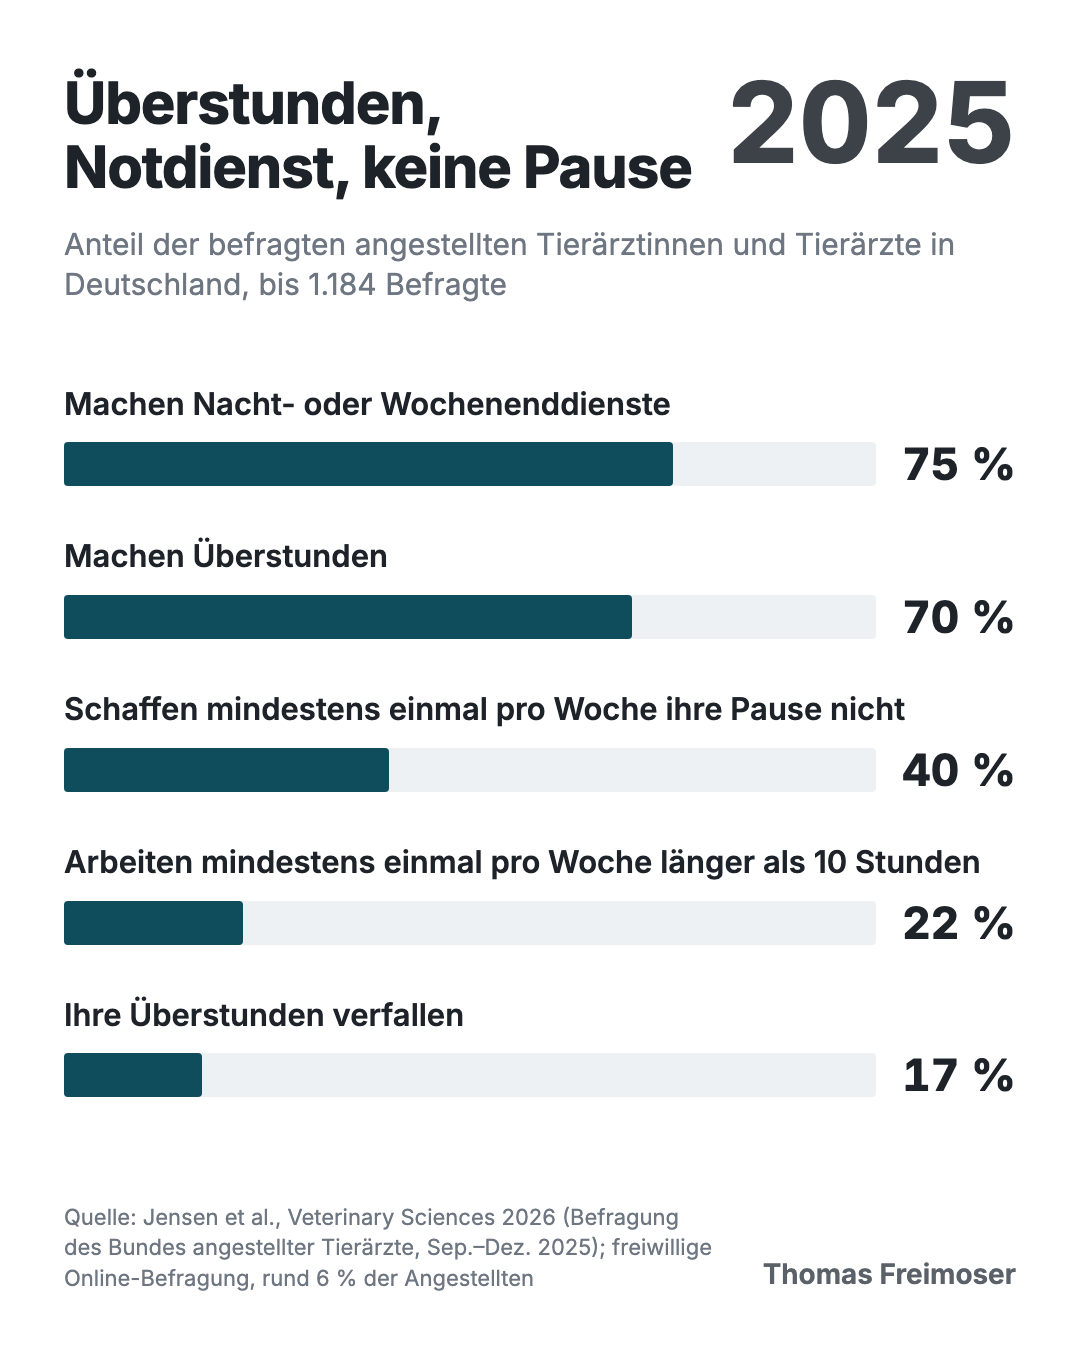
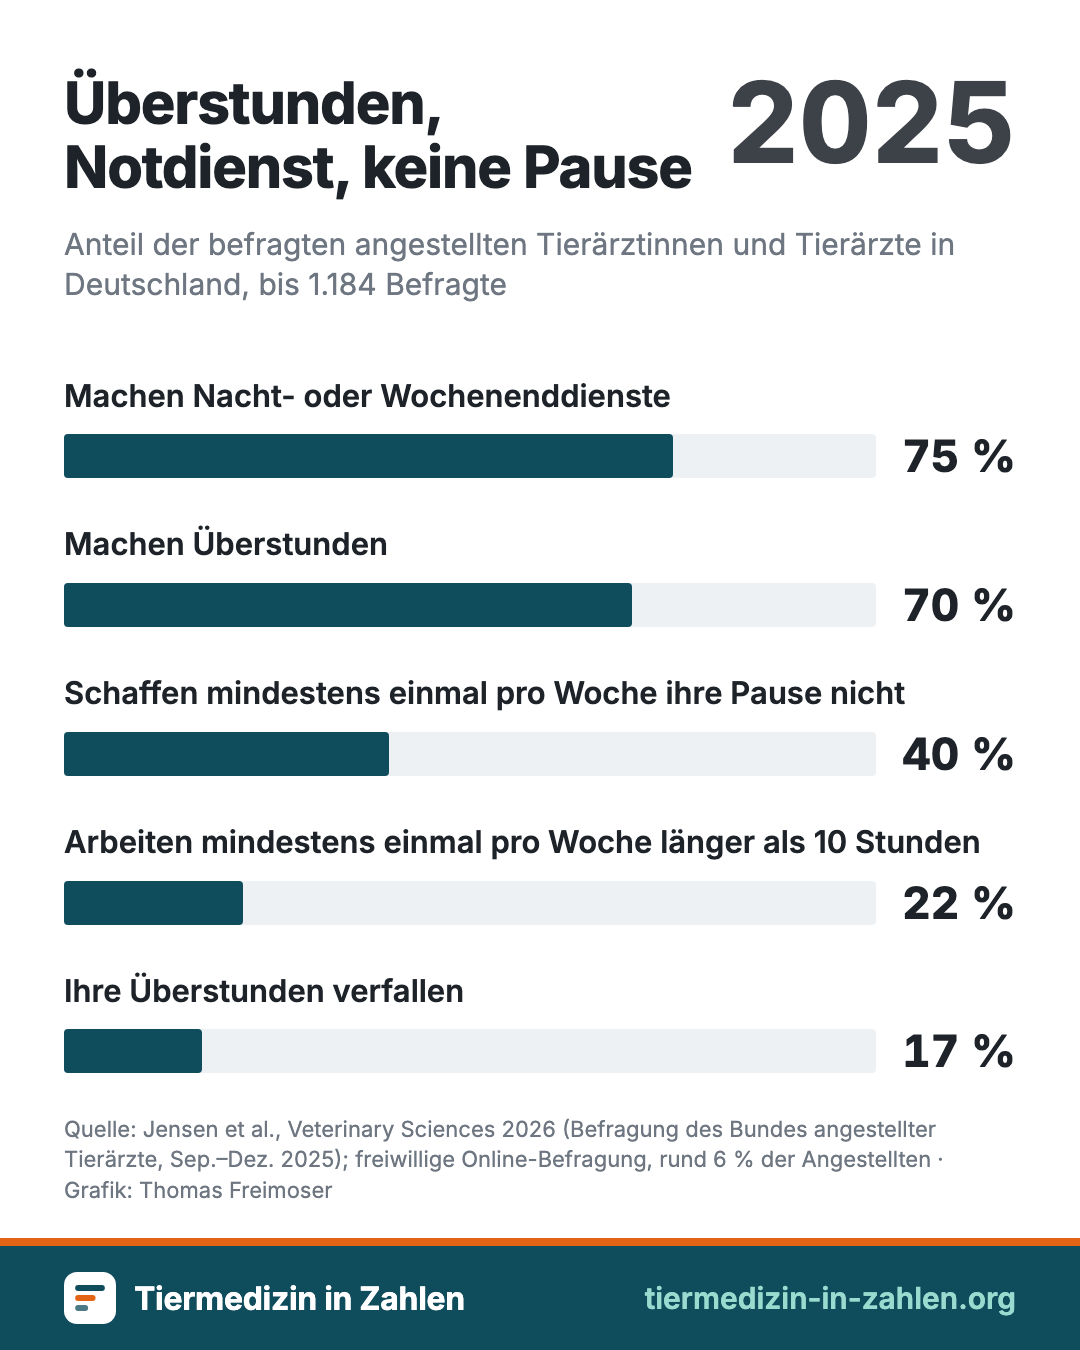
Marke in jedem Bild und Video: genormter Rahmen für Bildposts, Wasserzeichen tiermedizin-in-zahlen.org im Studio; Regel in CLAUDE.md

Changed region(s): [[0.0, 0.28, 1.0, 1.0], [0.825, 0.3111, 0.9472, 0.3733], [0.825, 0.4356, 0.9472, 0.4667]]

diff --git a/src/components/Buehne.tsx b/src/components/Buehne.tsx
@@ -147,6 +147,9 @@ export function Buehne({ dataset, settings, brand, controller: preview, leer, on
                 fontSize: layout.watermark.size,
                 lineHeight: 1,
                 fontWeight: 600,
+                // Ohne Tabellenziffern wie im Export (Canvas) und in der Breitenmessung des Layouts; sonst stehen
+                // die Bindestriche in „tiermedizin-in-zahlen.org“ breit und der Text wird länger als berechnet.
+                fontFeatureSettings: 'normal',
                 opacity: settings.watermarkOpacity,
                 height: layout.watermark.logoSize,
               }}

diff --git a/src/lib/settings.ts b/src/lib/settings.ts
@@ -116,7 +116,8 @@ export const DEFAULT_SETTINGS: ChartSettings = {
   suffix: '',
   compact: false,
   watermarkEnabled: true,
-  watermarkText: 'Thomas Freimoser',
+  // Jedes Video trägt die Adresse der Seite (Regel seit 09.10.2026, CLAUDE.md). Im Studio änderbar.
+  watermarkText: 'tiermedizin-in-zahlen.org',
   watermarkPosition: 'bottom-right',
   watermarkOpacity: 0.7,
   watermarkScale: 1,

diff --git a/CHANGELOG.md b/CHANGELOG.md
@@ -4,6 +4,12 @@ Alle nennenswerten Änderungen dieses Projekts. Format lose nach [Keep a Changel
 
 ## [Unveröffentlicht]
 
+### Marke in jedem Bild und Video (09.10.2026)
+
+- **Bildposts:** `scripts/balkenbild.mjs` setzt jeden Inhalt in einen genormten Rahmen: Band unten mit Logo, „Tiermedizin in Zahlen“ und `tiermedizin-in-zahlen.org`, Quelle und „Grafik: Thomas Freimoser“ darüber. Erstes Bild: Überstunden (`docs/linkedin/grafik-ueberstunden.png`).
+- **Videos:** Standard-Wasserzeichen im Studio jetzt `tiermedizin-in-zahlen.org` statt des Namens. Die Vorschau zeichnet es ohne Tabellenziffern wie der Export; vorher standen die Bindestriche breit und der Text war länger als vom Layout berechnet.
+- Regel in `CLAUDE.md` (Abschnitt Posts).
+
 ### Korrektur Teilzeit, Post „Überstunden“ (09.10.2026)
 
 - **Korrektur:** „Jede zweite Frau in Teilzeit, aber nur 13 Prozent der Männer“ stand als Angabe zur Tiermedizin in den Artikeln 4, 5, 28 und 29, in der Dateninfo von `inhaber-angestellte` und im Post-Text 5. Laut Tierärzte Atlas beschreibt sie die Gesamtbevölkerung. Ersetzt durch Branchendaten: 54,6 Prozent Teilzeit unter angestellten Tierärzt:innen (Jensen et al., Veterinary Sciences 2026, BaT-Befragung Ende 2025), 34–43 Prozent laut Stichproben im Tierärzte Atlas; Wochenstunden aus dem GOT-Gutachten (Inhaber 50,4, Angestellte 35,1). Korrekturvermerk mit Datum in jedem Artikel.

diff --git a/CLAUDE.md b/CLAUDE.md
@@ -32,6 +32,10 @@ Diese Regeln stammen aus Fehlern, die schon passiert sind. Vor jeder Auswertung,
 - Jeder Post-Text in `docs/linkedin/` endet vor den Quellen mit einem Block **„Gerechnet / Quellen“**: welche
   Werte berechnet sind (wie) und wo sich Quellen überschneiden.
 - Links in Post und Kommentar **ohne `.html`**.
+- **Jedes Bild und Video trägt die Marke.** Bildposts (ohne Zeitreihe) nur über `scripts/balkenbild.mjs` aus einer
+  JSON-Datei: 1080 × 1350 (4:5, LinkedIn und Instagram), genormtes Band unten mit Logo, „Tiermedizin in Zahlen“ und
+  `tiermedizin-in-zahlen.org`. Videos aus dem Studio mit dem Wasserzeichen `tiermedizin-in-zahlen.org` (Standard).
+  Kein Bild ohne Quelle im Bild.
 - Ablauf je Post: `docs/REDAKTION.md`. Datenstandard: `docs/DATENSTANDARD.md`. Datensätze: `docs/DATASETS.md`.
 
 ## Website
